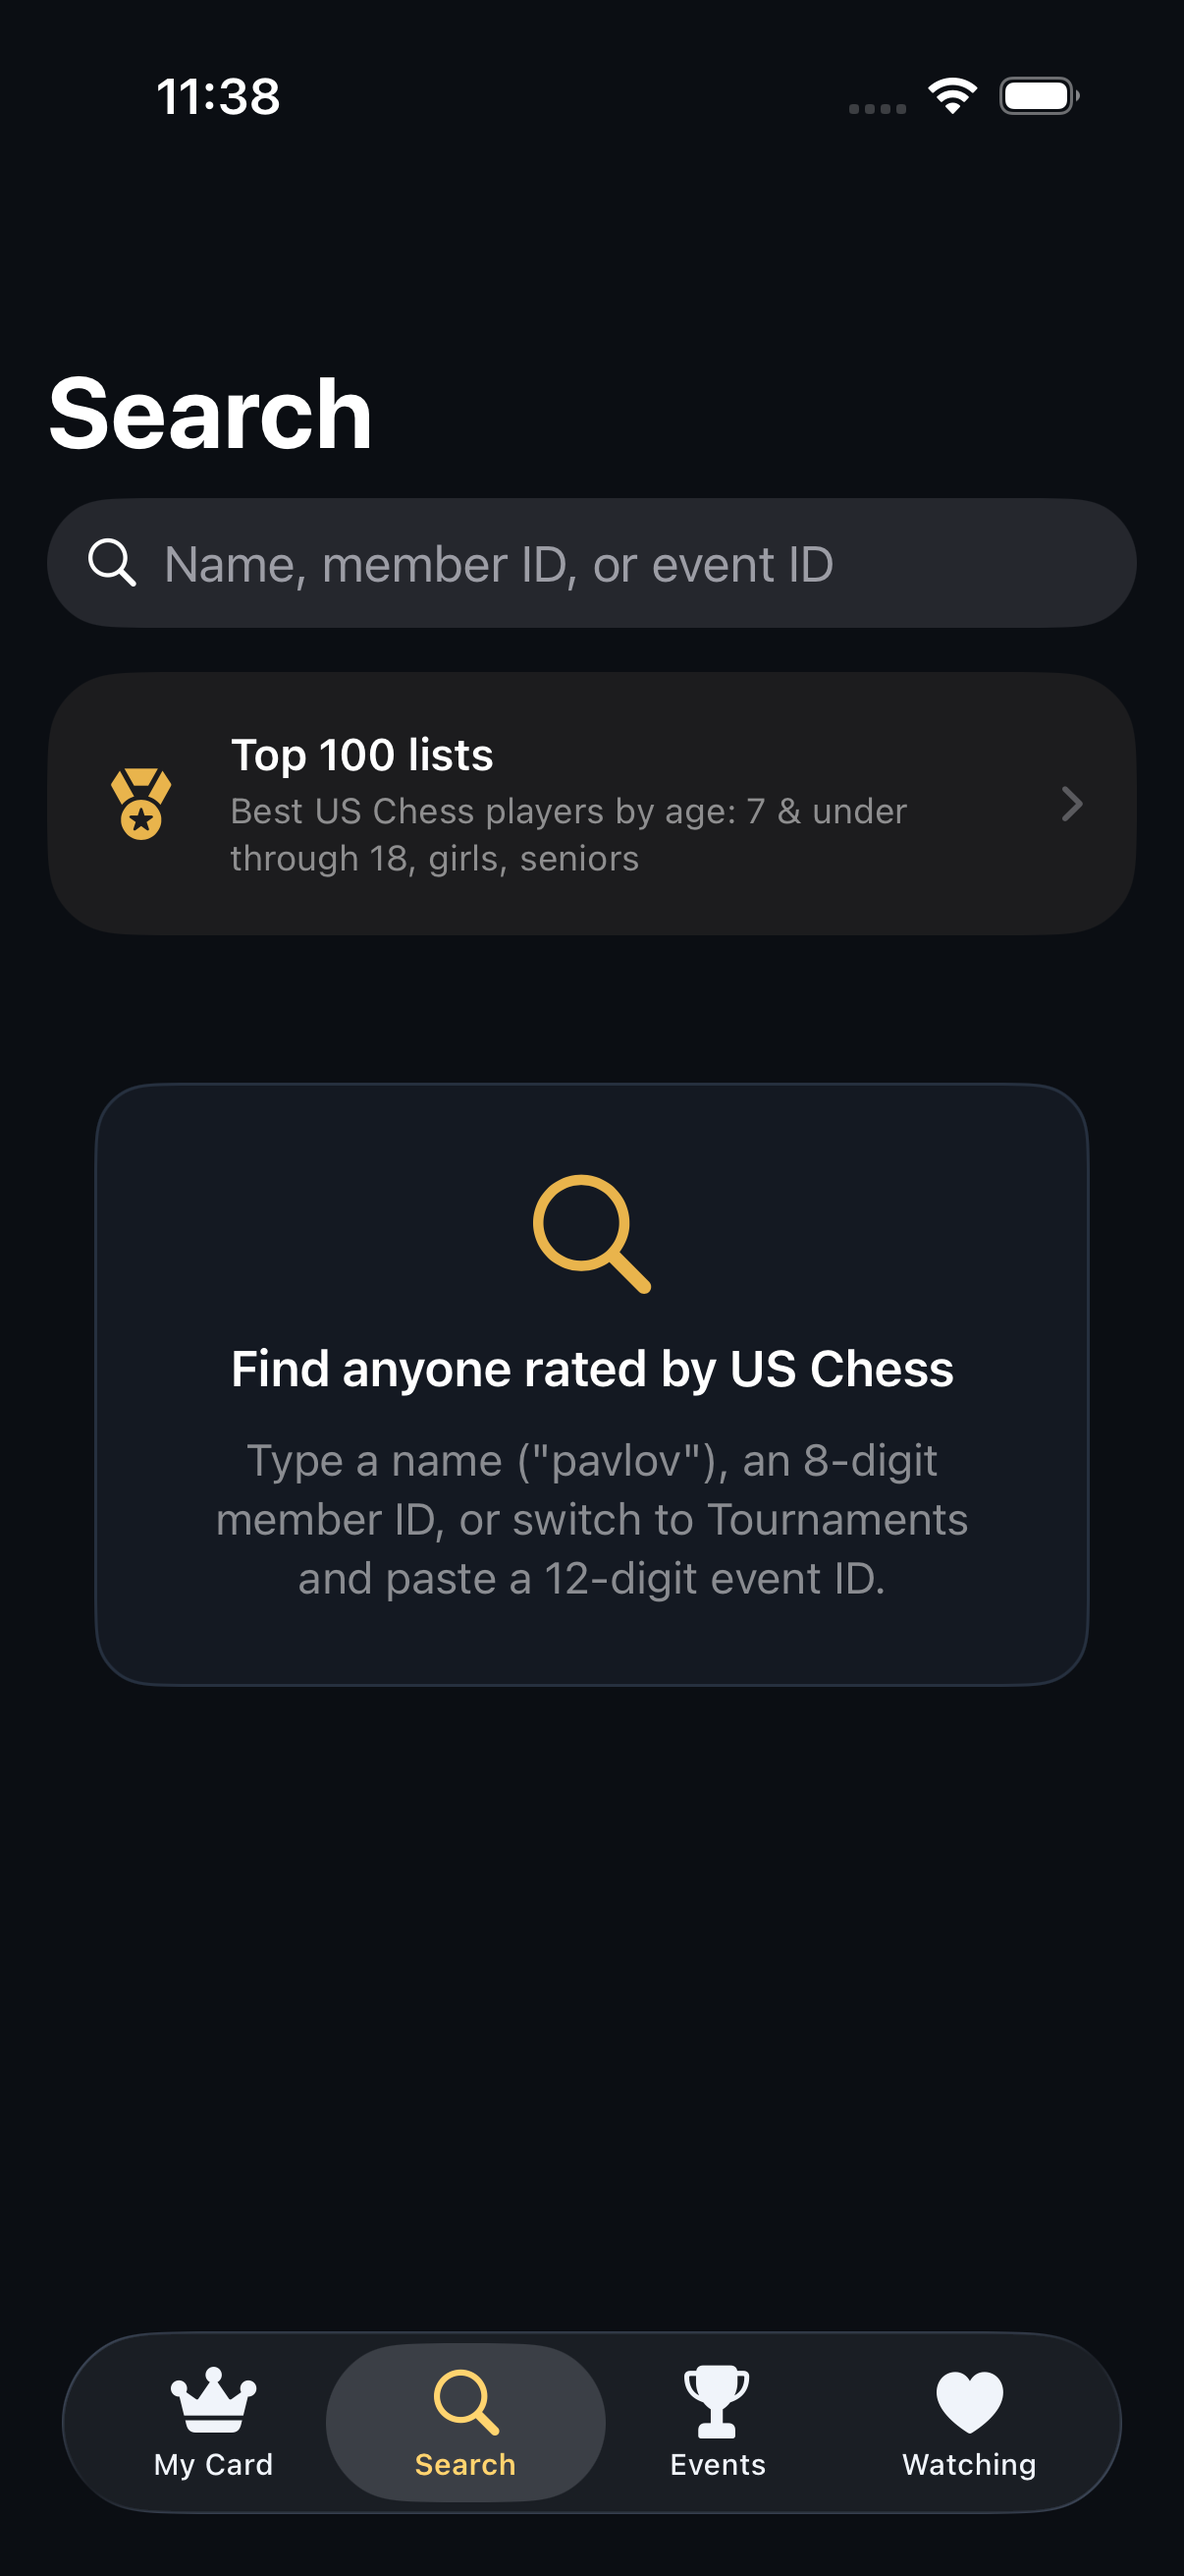
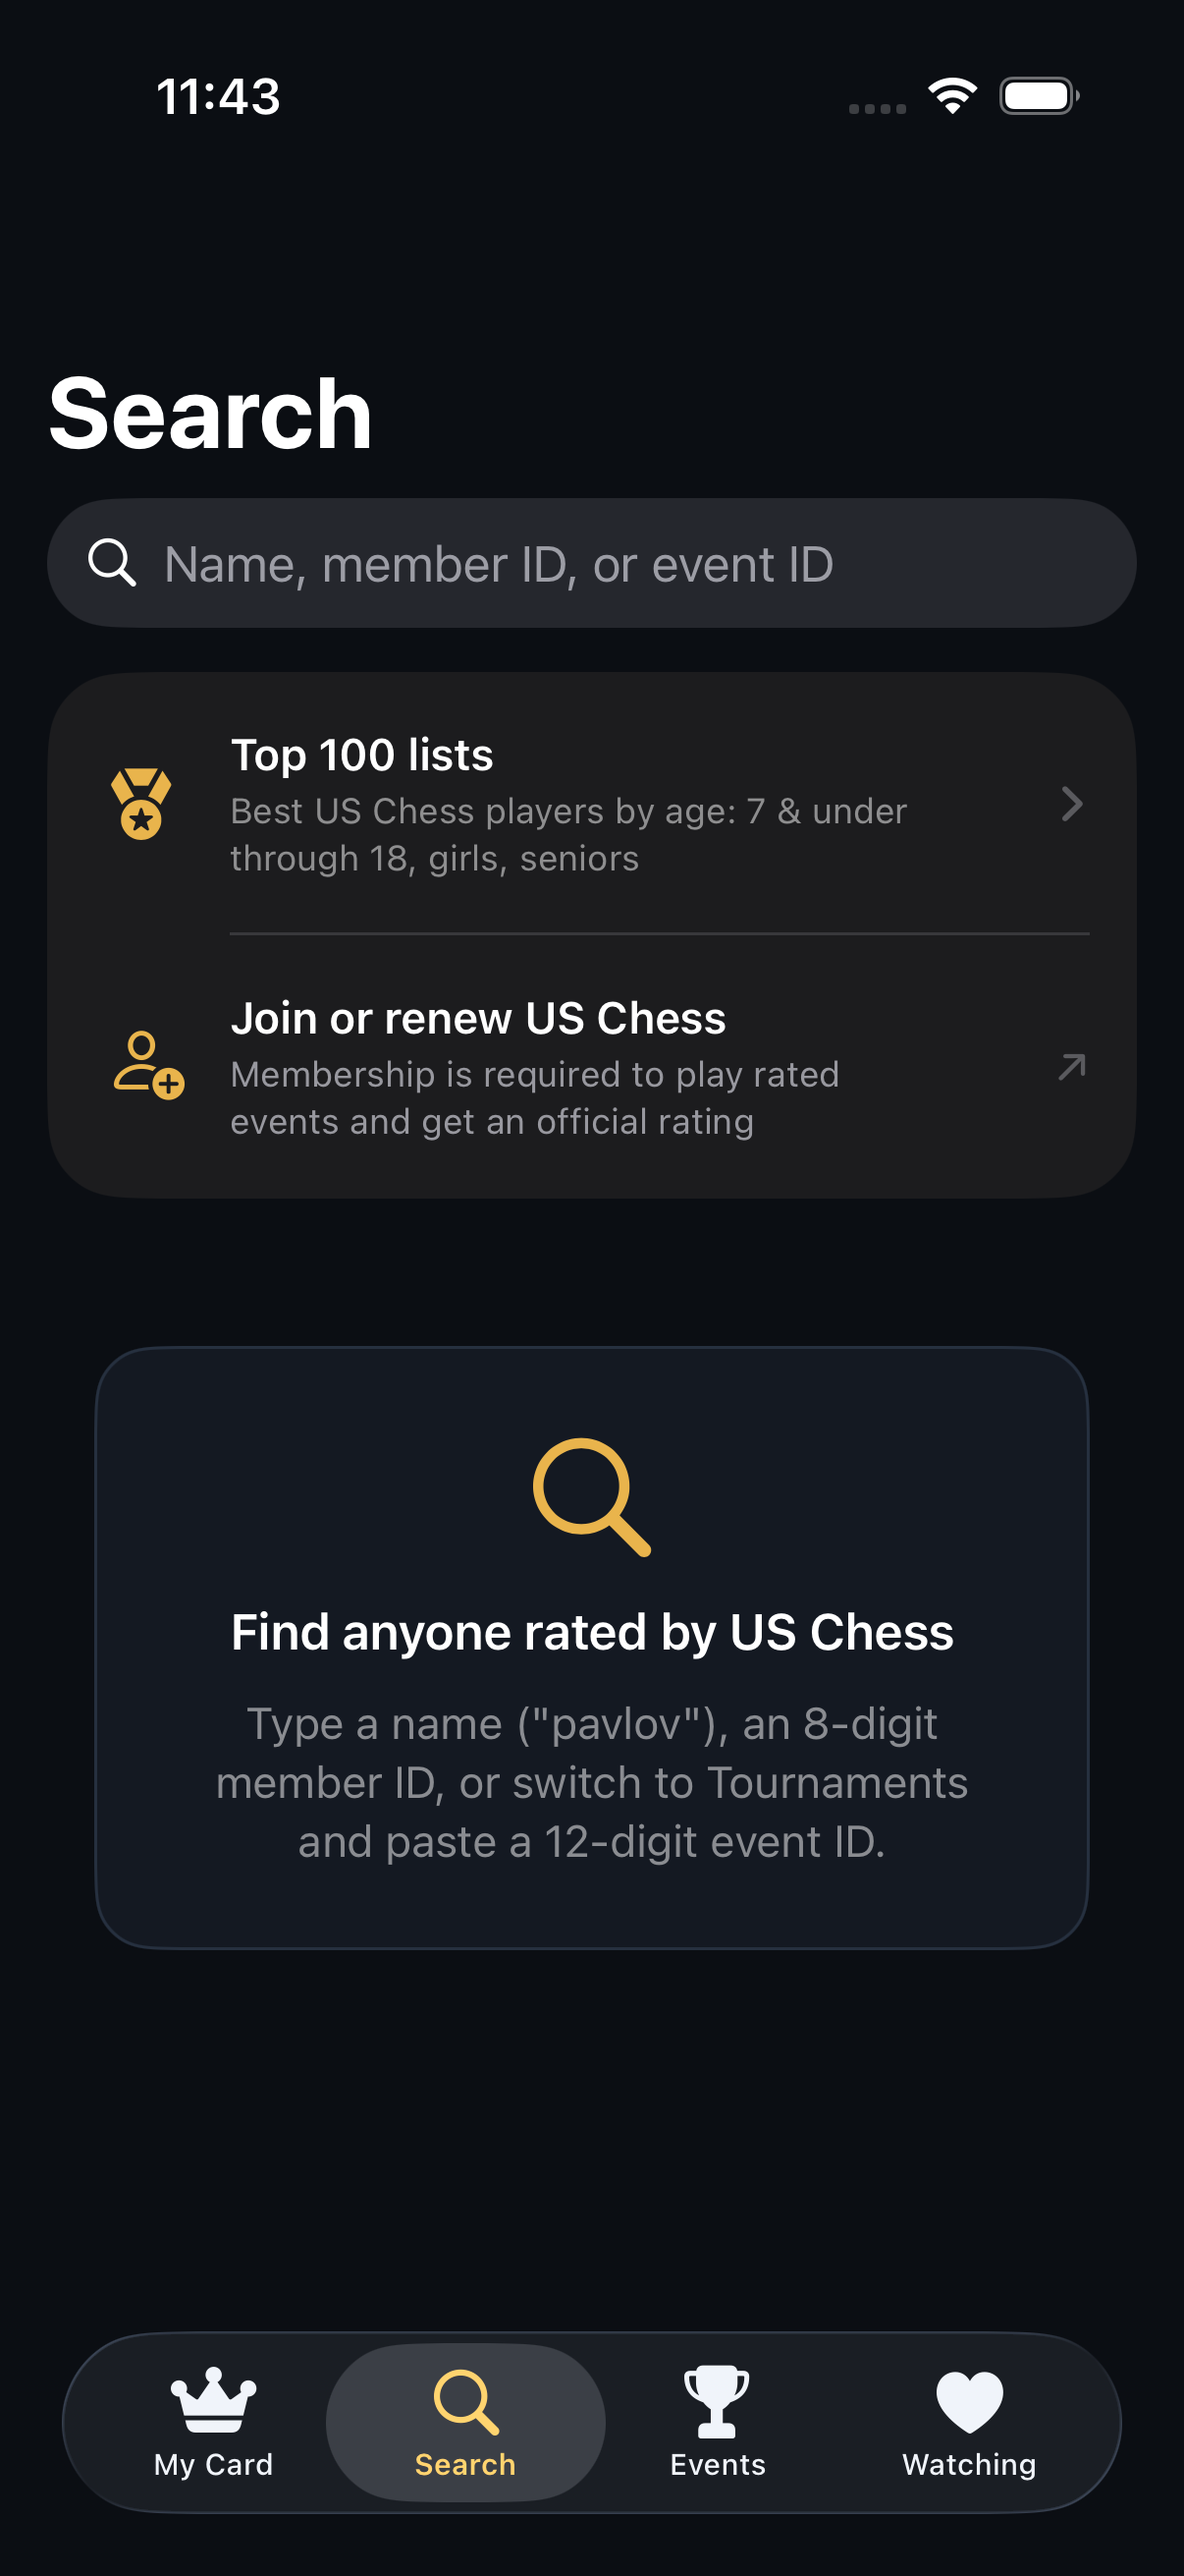
docs: README and screenshots for the new features
- Features: distance 10–500 mi, formatted announcements with tappable
  links and Copy, Best wins, the Join / renew US Chess shortcut.
- Using the app: back returns to the same spot with the opened row
  outlined; Copy on announcements; Best wins and its first-load progress.
- API findings: members/{id}/games (no ratings), the ~100 requests/minute
  rate limit and how requests wait it out, how Best wins reads ratings.
- Tests: 44 unit / 25 UI, new suites listed.
- Screenshots (demo data): refreshed Search, plus a "What's new" row —
  Best wins, its ⓘ, announcement + Copy, distance picker, opened row
  outlined after going back.

diff --git a/README.md b/README.md
@@ -41,17 +41,24 @@ finding the next tournament to play — fast and delightful:
   events, and rating changes on every row. **Tap a player to see each round** — the
   opponent, their rating, and an **estimated rating change for both players**
   (US Chess only publishes the event total; estimates always add up to it).
-- **🗺 Upcoming tournaments** — US Chess tournaments **near you** (25 / 50 / 100 /
-  200 mi, this weekend / 30 days / 3 months, scholastic / quads / Grand Prix) plus
-  nationwide **major events**. Each tournament shows the date and weekday, a venue
-  map with **directions**, a **Register** button, the full announcement, and
-  organizer contacts.
+- **🗺 Upcoming tournaments** — US Chess tournaments **near you** (10 mi for dense
+  cities up to 500 mi for big states; this weekend / 30 days / 3 months; scholastic /
+  quads / Grand Prix) plus nationwide **major events**. Each tournament shows the
+  date and weekday, a venue map with **directions**, a **Register** button, organizer
+  contacts, and the full announcement **as the organizer formatted it** — bold,
+  headings, bullets, and tappable links, emails and phone numbers — with a **Copy**
+  button that keeps each link's address.
+- **🏆 Best wins** — on My Card and every profile: the highest-rated opponents a
+  player has beaten in Regular play, **rated as they were on the day of the game**,
+  how far above the player that was, and their Top 100 badge. Each win opens its
+  crosstable; an ⓘ explains the card in plain words.
 - **🏅 Top 100 by age** — browse US Chess's monthly Top 100 lists (age 7 & under
   through 18, girls, 50+, 65+; Regular / Quick / Blitz; your state only). Players on
   a list get a badge like **#37 · Age 9** everywhere they appear — My Card,
   profiles, Watching, search results, and tournament standings.
 - **🔍 Search** — one field for players (name or 8-digit member ID) and tournaments
-  (12-digit event ID), plus a shortcut to the Top 100 lists.
+  (12-digit event ID), plus shortcuts to the Top 100 lists and to **join or renew
+  US Chess membership**.
 - **👤 Player profiles** — Regular / Quick / Blitz, **live vs published** ratings side
   by side, USCF class title, rankings, full event history, and a tap-to-copy
   member ID.
@@ -141,11 +148,13 @@ modes — the UI only ever sees the domain models.
 4. **Open a tournament.** Tap any event (or go to **Events → Results** and paste a
    12-digit event ID). Pick a section from the section picker, then **tap any row**
    to see each round with estimated rating changes for both players. Followed
-   players are outlined in gold and auto-scrolled to.
+   players are outlined in gold and auto-scrolled to. Going back returns you to the
+   same spot in the list, with the event you opened outlined in gold.
 5. **Find the next tournament.** **Events → Upcoming → Near me** lists US Chess
    tournaments around your current location (or a city/ZIP you type). Tap one for
    the map, directions, and the **Register** link. **Major events** lists national
-   championships and big-prize events nationwide.
+   championships and big-prize events nationwide. Tap **Copy** on an announcement
+   to paste it into a message with its links intact.
 6. **Save a tournament for later.** On any tournament, tap **🔖 Save**. Saved
    tournaments collect at the top of **Watching**, soonest first — swipe to remove.
    Details are kept locally, so a saved event stays readable after the US Chess
@@ -156,8 +165,12 @@ modes — the UI only ever sees the domain models.
 8. **Browse the Top 100.** **Search → Top 100 lists** shows the best players by age,
    girls, and seniors — or just your state. Badges like **#37 · Age 9** show up next
    to ranked players everywhere in the app.
-9. **Track changes.** OpenBoard polls followed players in the background and fires a
-   local notification when a rating updates.
+9. **See your best wins.** Scroll My Card (or any profile) to **Best wins**. The first
+   look at a very active player can take a few minutes — the card shows progress
+   ("Analyzing 1,145 games · 42 of 225 events") and fills in as wins are found;
+   after that it's instant.
+10. **Track changes.** OpenBoard polls followed players in the background and fires a
+    local notification when a rating updates.
 
 No account or sign-in. Reads fully from cache when offline, and ships a **zero-network
 demo mode** (`-mock` launch argument) with synthetic sample data.
@@ -207,6 +220,7 @@ All of these returned **200 with real JSON**:
 | Tournament (with section list) | `GET /rated-events/{eventId}` |
 | Section metadata | `GET /rated-events/{eventId}/sections/{number}` |
 | **Crosstable standings** (with round-by-round) | `GET /rated-events/{eventId}/sections/{number}/standings` |
+| Every rated game (opponent + result, **no ratings**) | `GET /members/{memberId}/games?RatingSource=R` |
 | Top 100 list catalog (age / gender / rating type) | `GET /top-players` |
 | One Top 100 list (monthly) | `GET /top-players/{listId}` |
 
@@ -284,6 +298,13 @@ the iPad's round-by-round pills.
 - **No ages or birth dates.** Being on a Top 100 age list is the only age signal, so
   badges come from indexing the lists (`TopListsIndex`, cached 12 h).
 - **Score is numeric** (`4.0`, `2.5`); formatted to `"3.0"` display strings.
+- **Rate limit: about 100 requests a minute**, then `429` for ~40 s, with no
+  `Retry-After` or rate-limit headers (measured). Requests wait and retry
+  (4 / 10 / 20 / 30 s) instead of failing the screen.
+- **Games carry no ratings.** Best wins reads opponents' pre-event ratings from each
+  section's standings — one request per section with a win, one a second, strongest
+  sections first, stopping once no better win is plausible. Rated sections never
+  change, so they're cached for good.
 - No auth is required; the app sends `User-Agent: OpenBoard-iOS/1.0`.
 
 ### What was mocked
@@ -402,7 +423,7 @@ xcodebuild test -project OpenBoard.xcodeproj -scheme OpenBoard \
   -destination 'platform=iOS Simulator,name=iPhone 17 Pro,OS=26.5'
 ```
 
-### Unit tests — Swift Testing, 31 tests, one suite per area
+### Unit tests — Swift Testing, 44 tests, one suite per area
 
 ```
 OpenBoardTests/
@@ -411,15 +432,18 @@ OpenBoardTests/
 ├── DeltaTests               rating deltas + clock-digit formatting
 ├── CacheTests               cache TTL (fresh / stale / miss / stale served on failure)
 ├── RoundEstimateTests       per-round estimates add up to the official change
-├── UpcomingTournamentTests  parsing saved US Chess pages (search, announcement, Plan Ahead)
+├── UpcomingTournamentTests  parsing saved US Chess pages (search, announcement, Plan Ahead),
+│                            announcement HTML → Markdown, copy text, distance options
 ├── TopListTests             Top 100 lists, labels, badge index, multi-page loading
+├── BestWinsTests            games decoding, ranking, scan order, early stop, cached rescan
+├── RateLimitTests           429 retry and the "too many requests" error (stub URLProtocol)
 └── Support/                 FixtureLoader, TestContainer (in-memory SwiftData)
 ```
 
 Fixtures use **synthetic data that mirrors the real API shape**, plus saved copies of
 the US Chess tournament pages.
 
-### UI tests — XCTest, 16 tests, page objects
+### UI tests — XCTest, 25 tests, page objects
 
 ```
 OpenBoardUITests/
@@ -431,7 +455,7 @@ OpenBoardUITests/
 │       SearchView, TopListsView, EventsView, TournamentDetailView, WatchingView
 └── Tests/                         SearchTests, RatingHistoryTests, CrosstableTests,
                                    UpcomingTournamentTests, TopListsTests,
-                                   SavedTournamentTests
+                                   SavedTournamentTests, BestWinsTests
 ```
 
 - **Elements are found by accessibility ID only.** IDs live in `Shared/AccessibilityID.swift`,
@@ -475,7 +499,7 @@ All green on the iOS 26.5 simulator.
 - ✅ Runs fully on mock data with **zero network** (`-mock`).
 - ✅ Flips to live data by changing one `AppEnvironment` flag — **and the probe
   succeeded, so live is already the default.**
-- ✅ Unit + UI tests pass (31 unit, 16 UI).
+- ✅ Unit + UI tests pass (44 unit, 25 UI).
 - ✅ Screenshots of every screen on iPhone 17 Pro and iPad Pro 13", dark and light.
 - ✅ App icon ships light, dark and tinted appearances.
 
@@ -492,6 +516,12 @@ All green on the iOS 26.5 simulator.
 | Upcoming near me | Tournament detail (saved) | Top 100 by age | Watching (saved + players) | Search |
 |:---:|:---:|:---:|:---:|:---:|
 | ![Upcoming](Screenshots/iphone-upcoming.png) | ![Tournament](Screenshots/iphone-tournament.png) | ![Top 100](Screenshots/iphone-top100.png) | ![Watching](Screenshots/iphone-watchlist.png) | ![Search](Screenshots/iphone-search.png) |
+
+### What's new
+
+| Best wins | Best wins ⓘ | Formatted announcement + Copy | Distance 10–500 mi | Back to where you were |
+|:---:|:---:|:---:|:---:|:---:|
+| ![Best wins](Screenshots/iphone-bestwins.png) | ![Best wins explained](Screenshots/iphone-bestwins-info.png) | ![Announcement](Screenshots/iphone-announcement.png) | ![Distance](Screenshots/iphone-distance.png) | ![Opened row outlined after going back](Screenshots/iphone-back-marked.png) |
 
 ### Light mode
 
